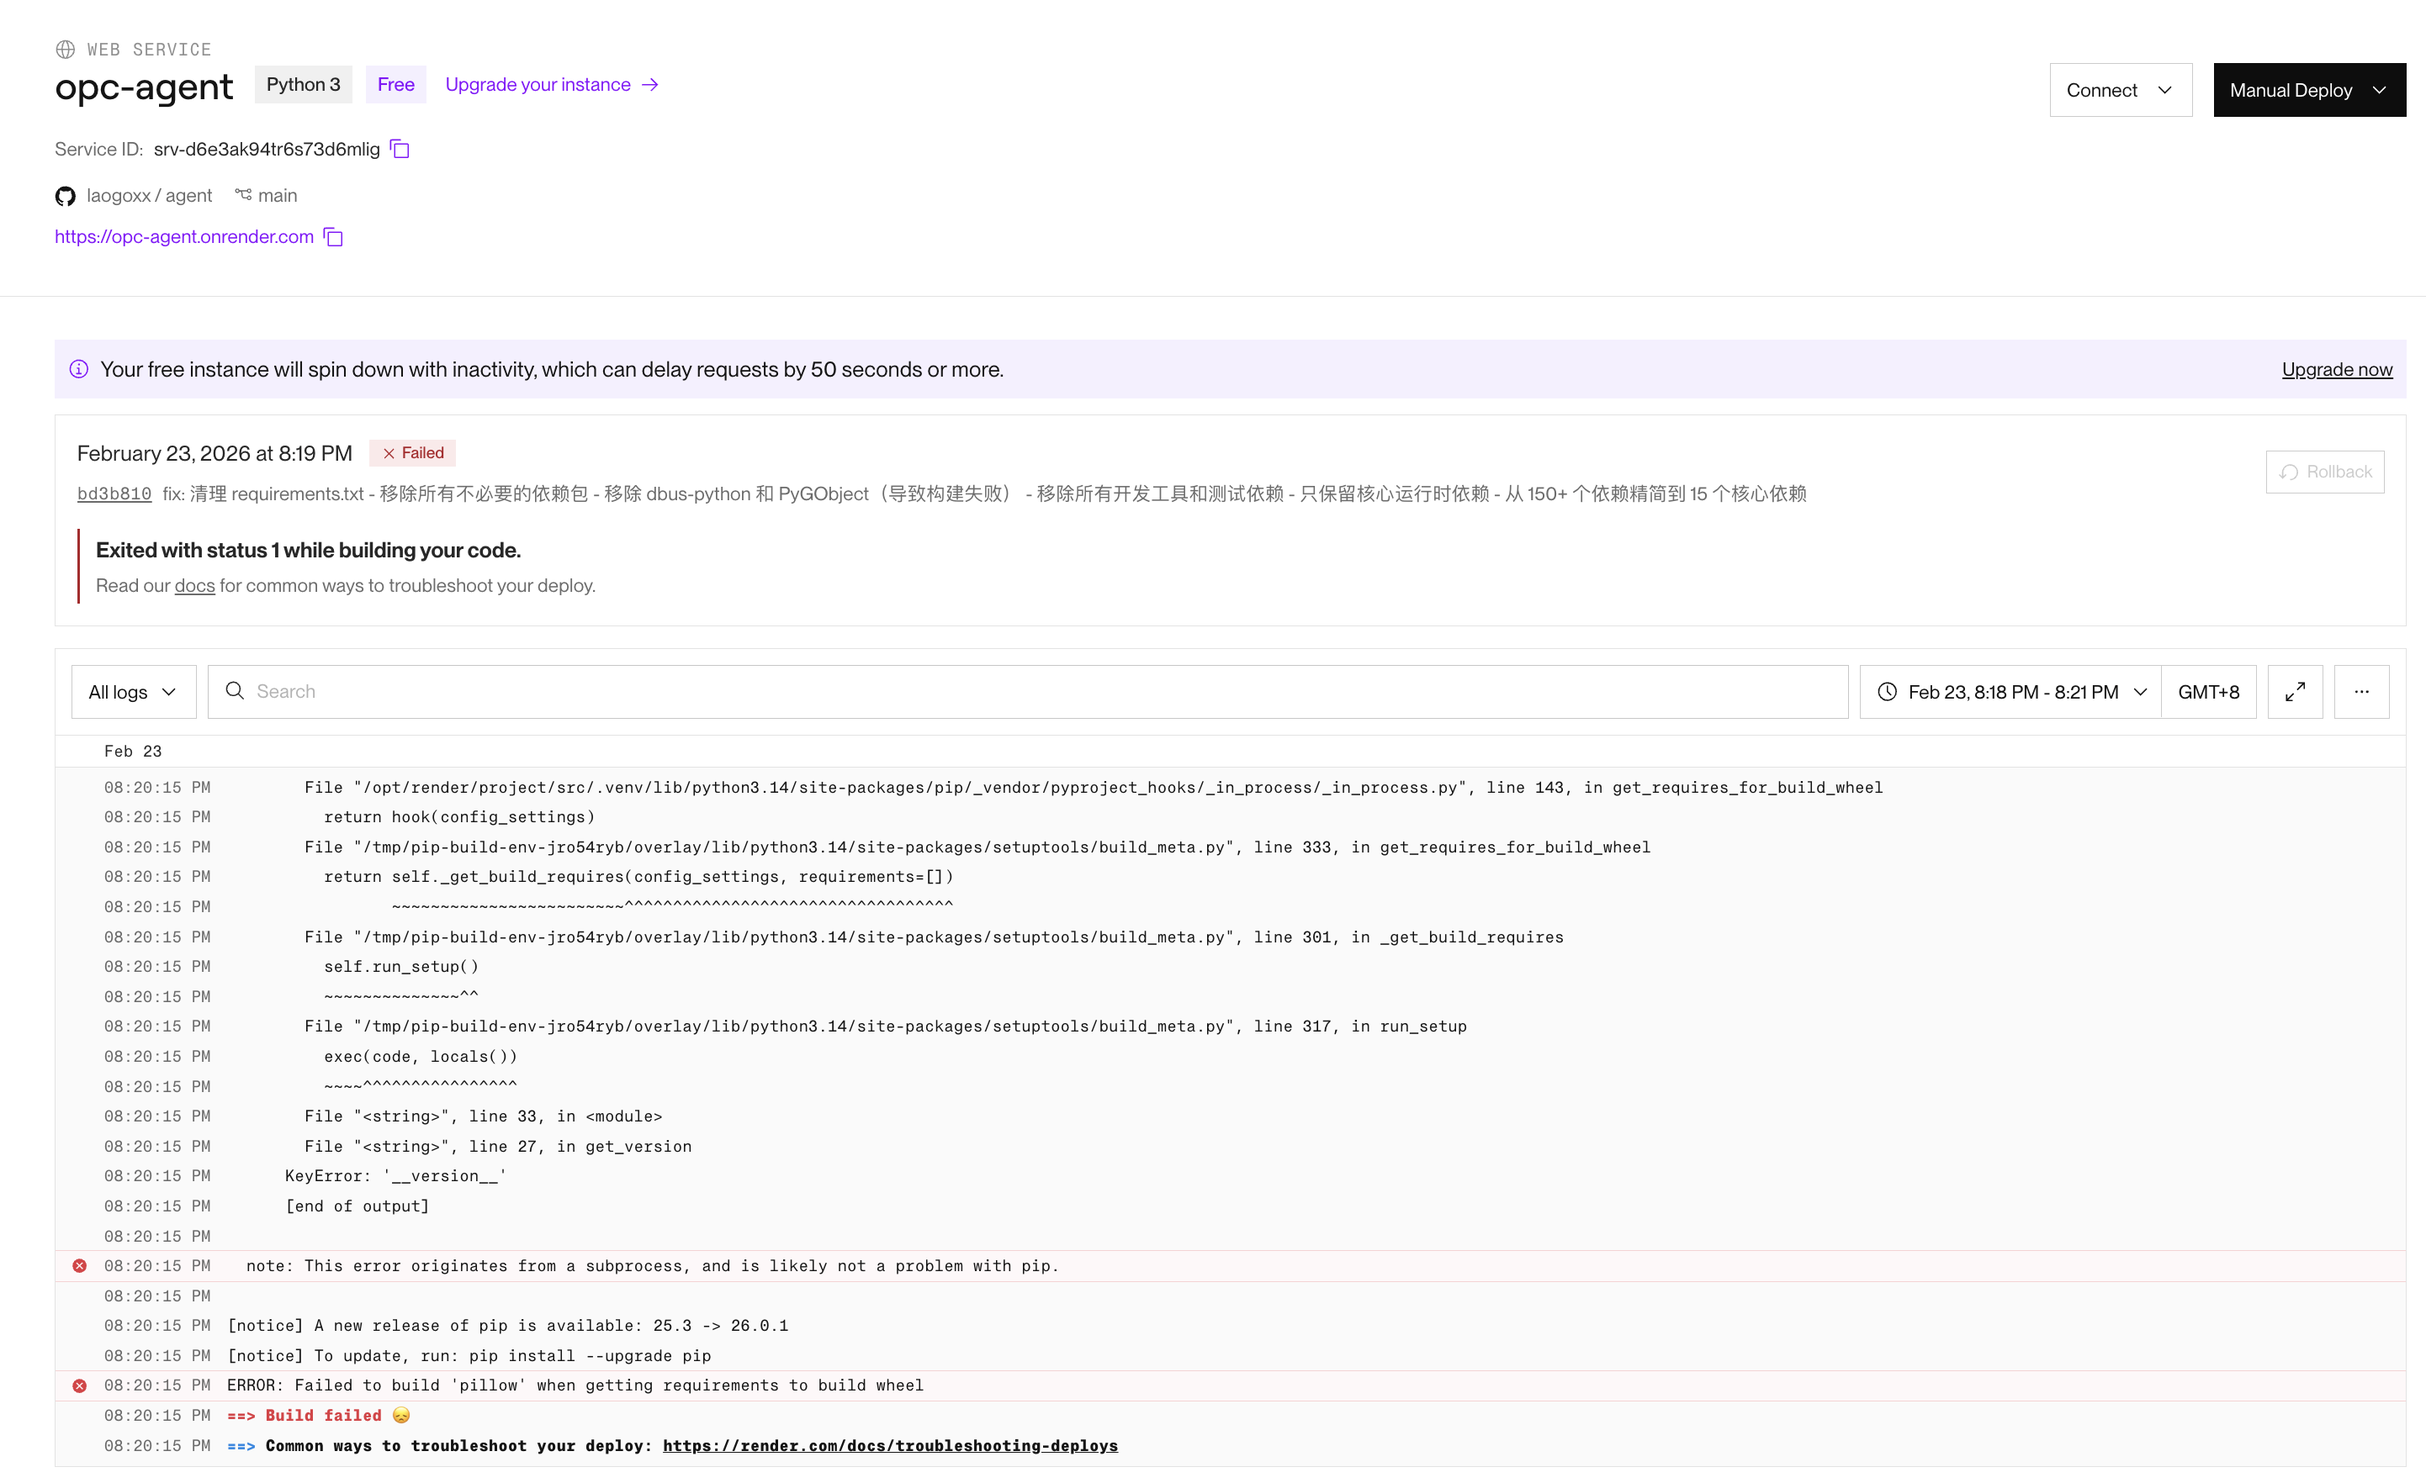
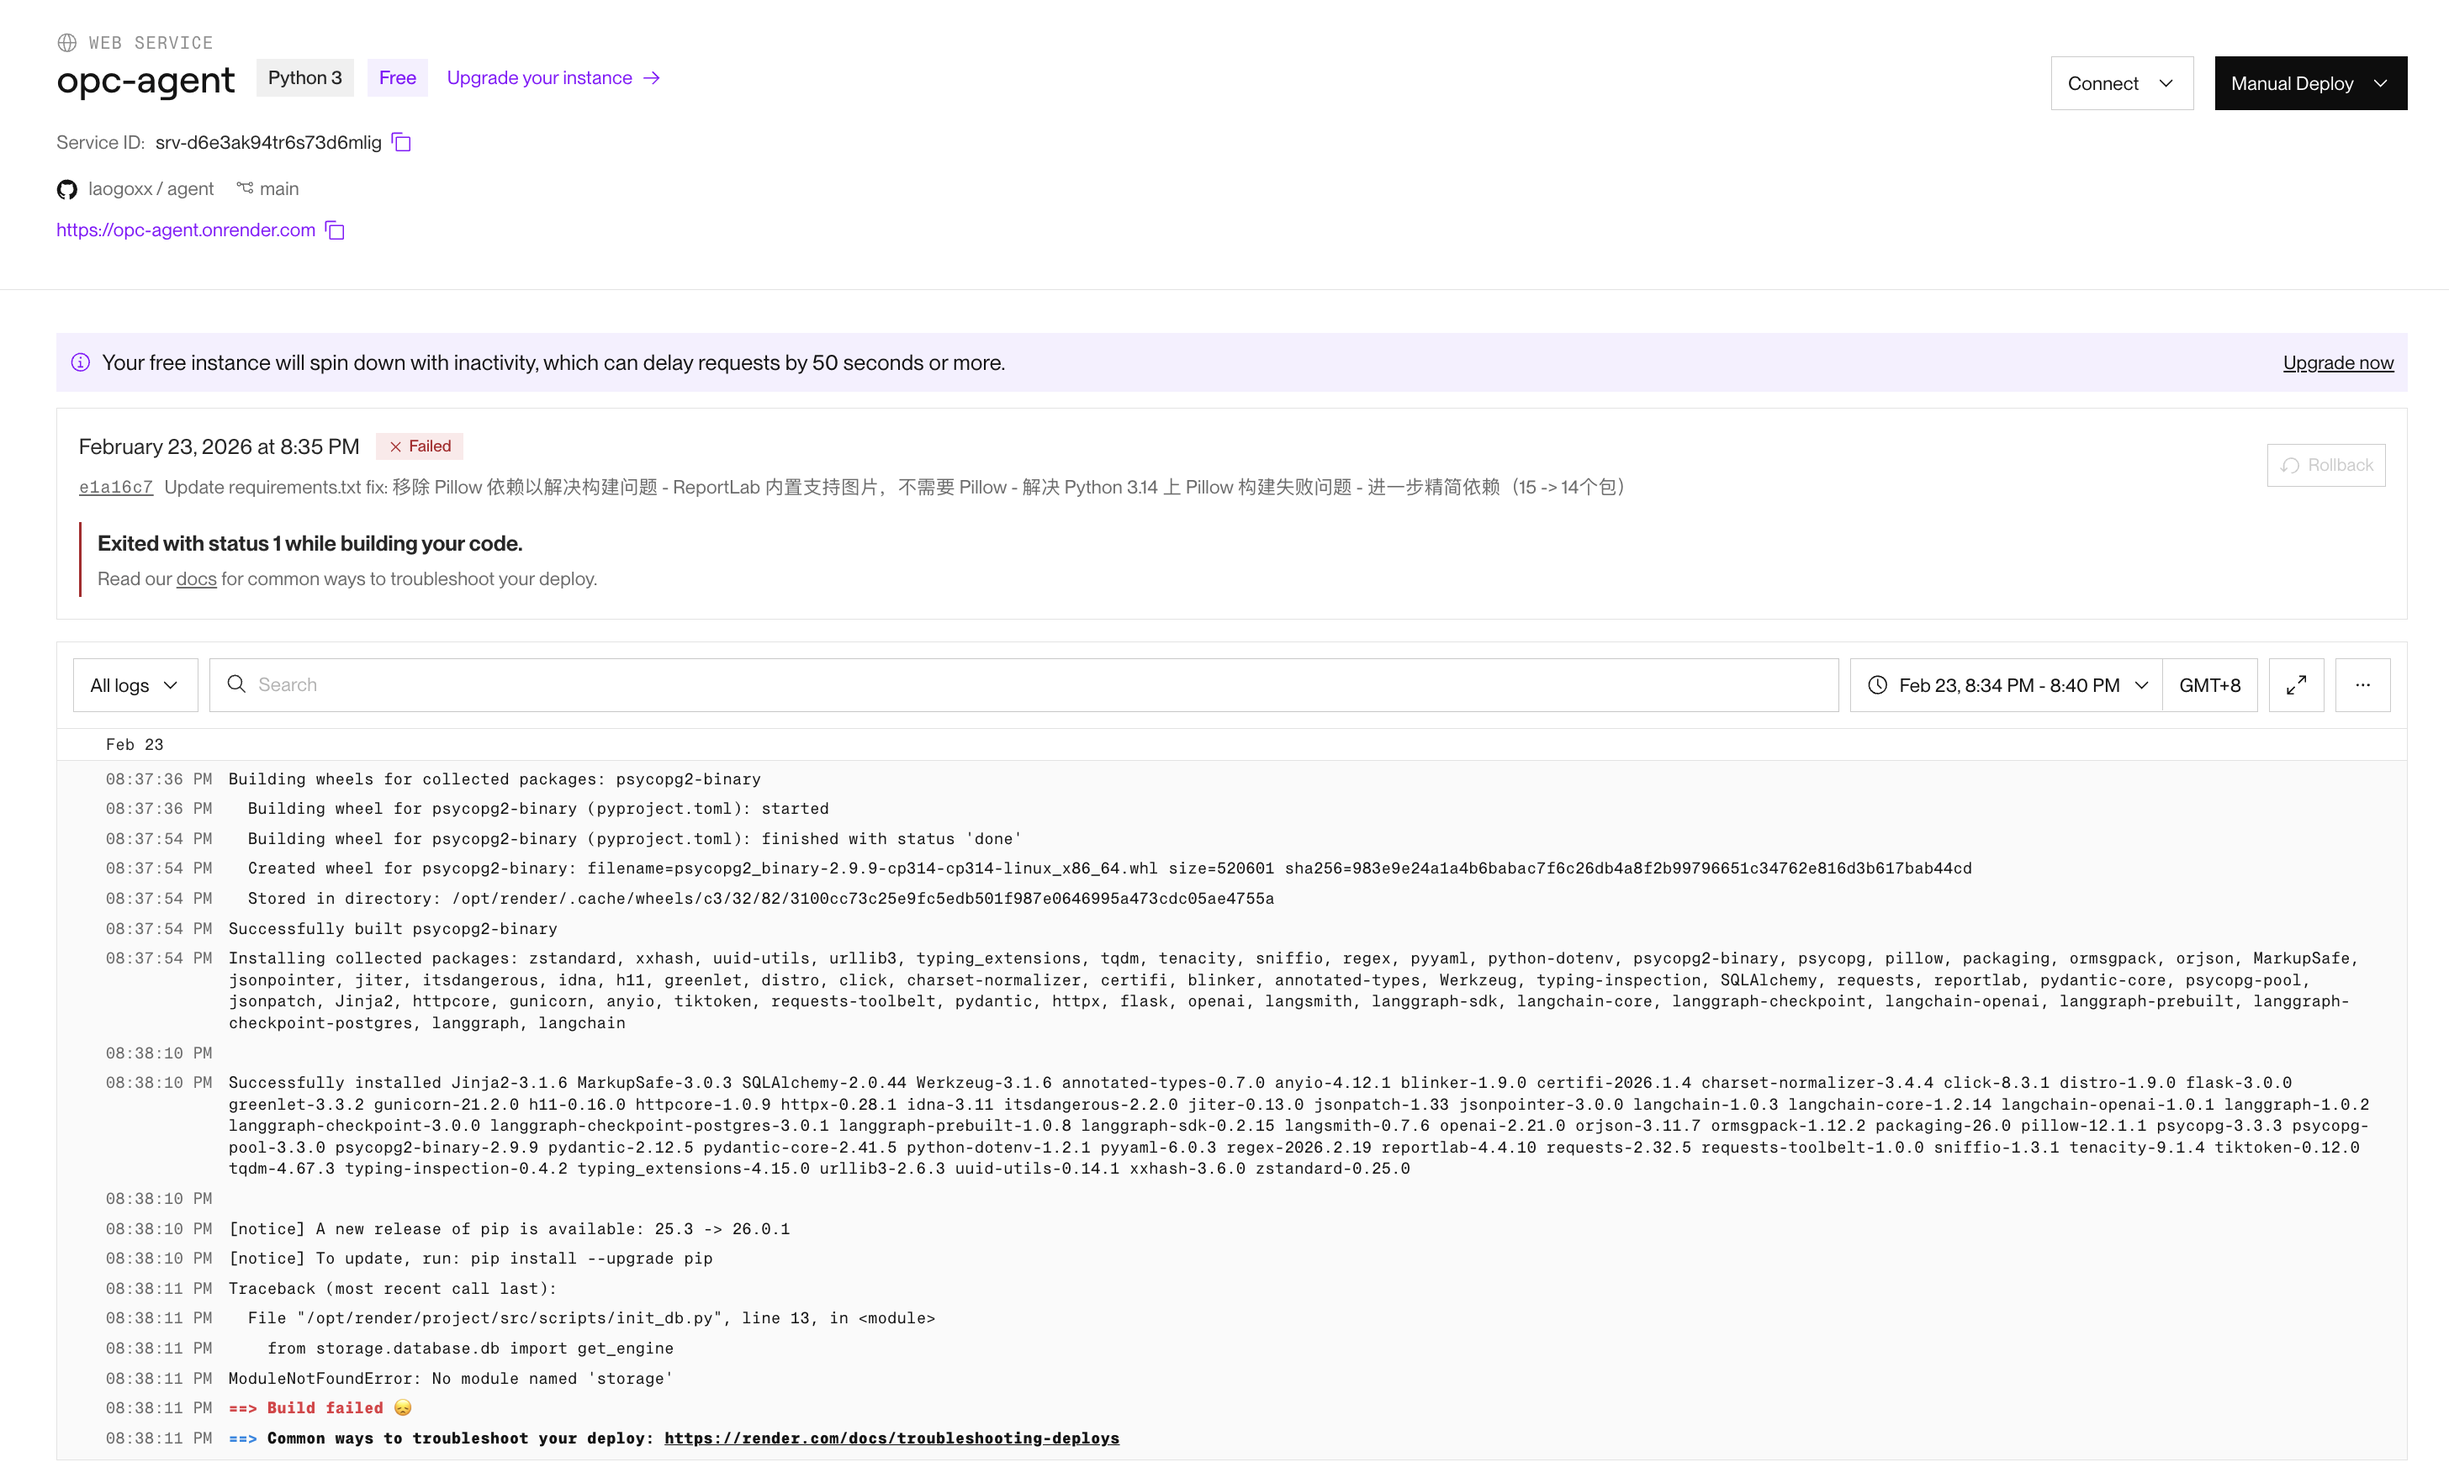
fix: 修复 Python 模块导入路径问题
- 修复 scripts/init_db.py 的导入路径，添加 src 目录到 sys.path
- 修复 .render/start.sh，进入 src 目录后再执行脚本
- 解决 'No module named storage' 错误
- 确保 Python 能找到所有项目模块

diff --git a/scripts/init_db.py b/scripts/init_db.py
@@ -5,16 +5,35 @@
 import sys
 import os
 
-# 添加项目根目录到 Python 路径
-project_root = os.path.abspath(os.path.join(os.path.dirname(__file__), '..'))
+# 添加多个可能的路径到 Python 路径，确保能找到模块
+script_dir = os.path.dirname(os.path.abspath(__file__))
+project_root = os.path.dirname(script_dir)
+src_dir = os.path.join(project_root, 'src')
+
+# 添加项目根目录、src 目录和当前目录到 Python 路径
 sys.path.insert(0, project_root)
+sys.path.insert(0, src_dir)
+sys.path.insert(0, script_dir)
 
-from sqlalchemy import text
-from storage.database.db import get_engine
-from storage.database.customer_models import Base
-import logging
+# 确保工作目录正确
+os.chdir(src_dir)
 
-logger = logging.getLogger(__name__)
+# 导入模块（使用 try-except 处理构建阶段的导入错误）
+try:
+    from sqlalchemy import text
+    from storage.database.db import get_engine
+    from storage.database.customer_models import Base
+    import logging
+
+    logger = logging.getLogger(__name__)
+except ImportError as e:
+    # 构建阶段可能无法导入模块，记录警告但不退出
+    if __name__ != "__main__":
+        # 只在导入时输出警告，不在主脚本运行时
+        print(f"Warning: Import failed in build phase: {e}")
+    else:
+        # 作为主脚本运行时，重新抛出错误
+        raise
 
 
 def init_customer_tables():
